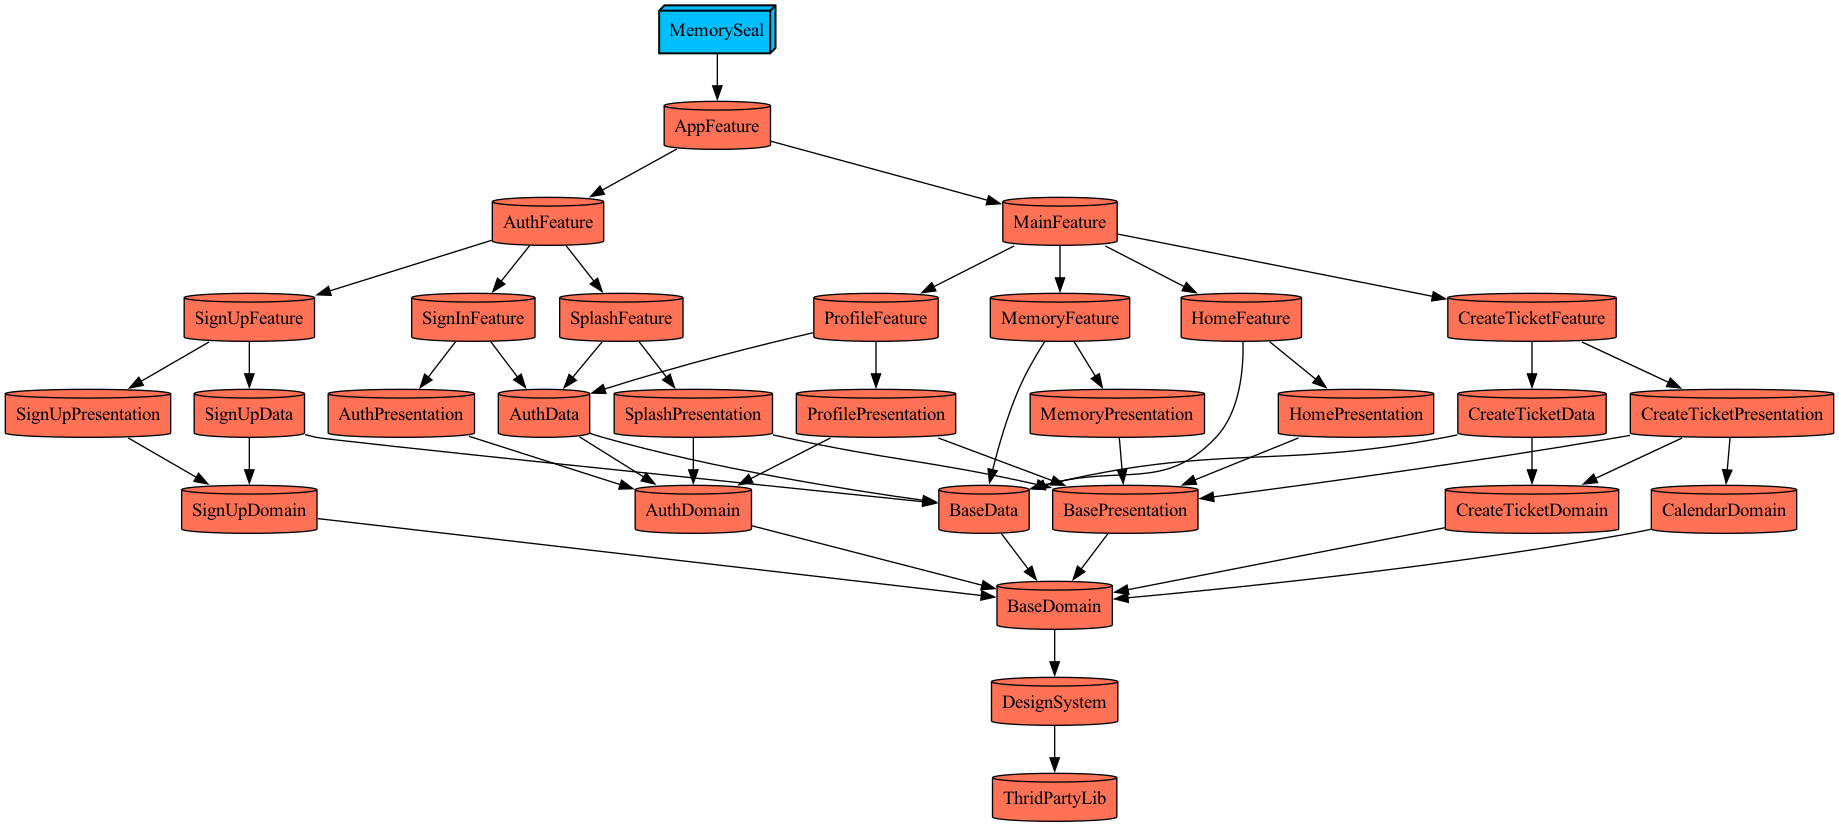
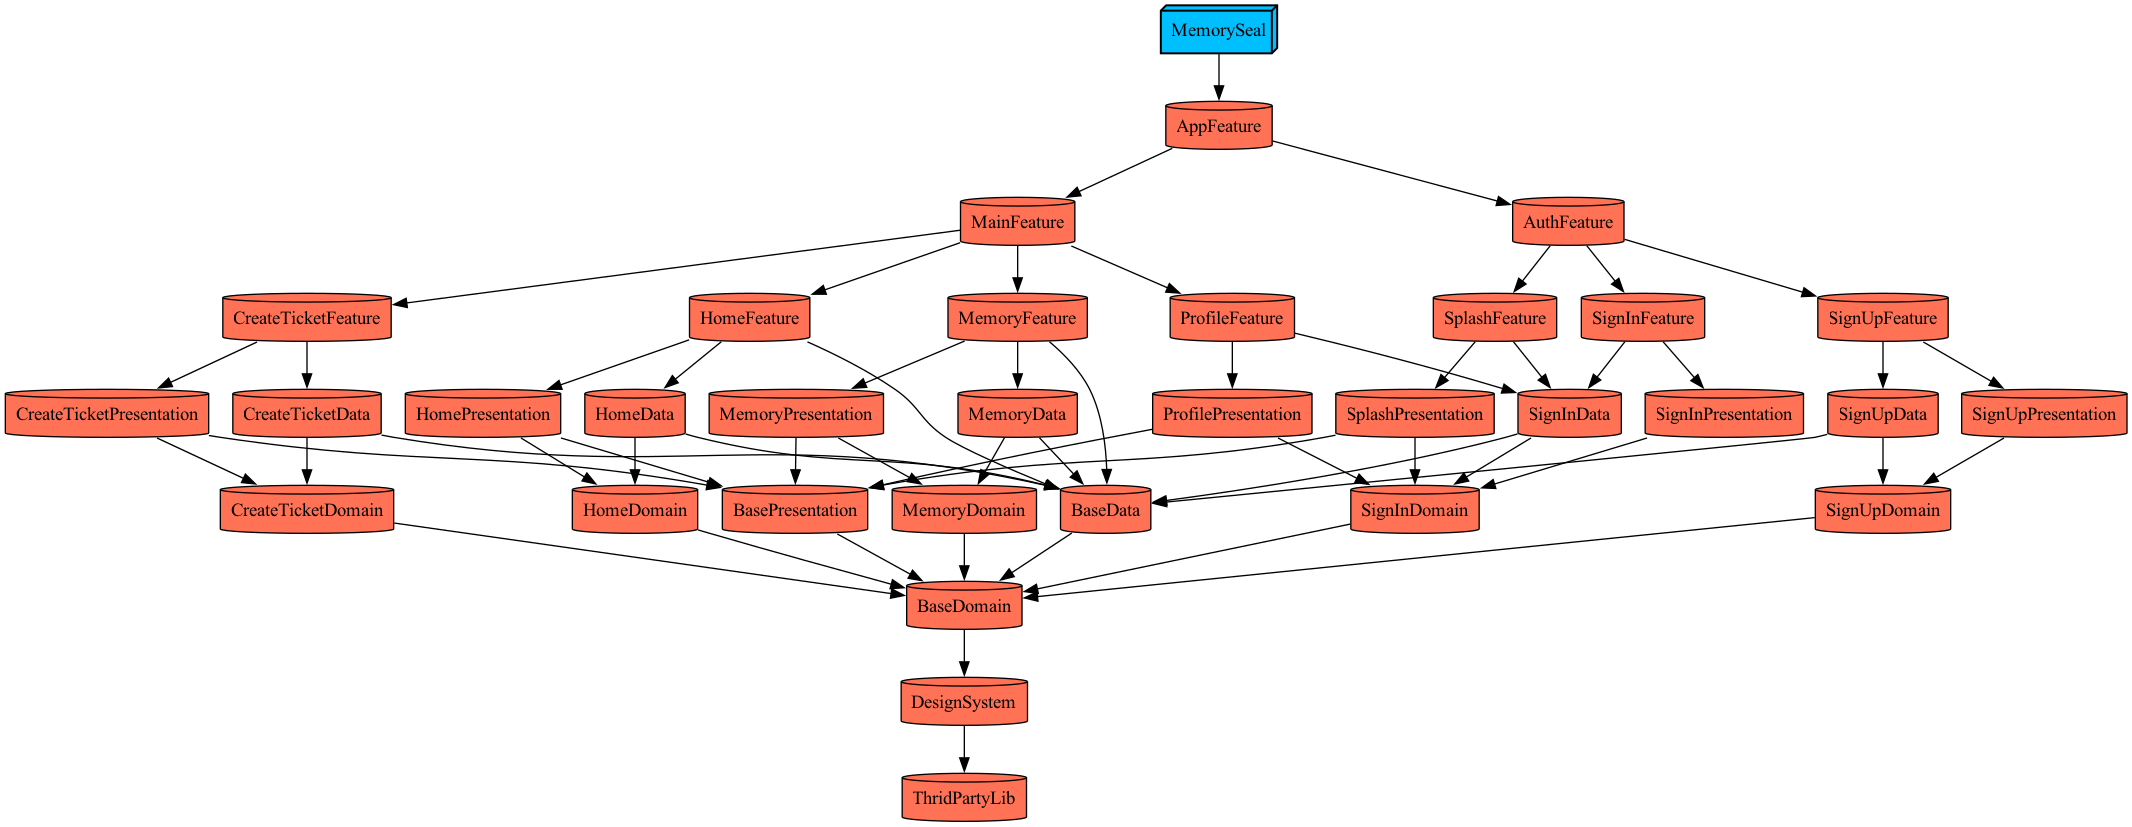
Merge pull request #60 from IdiotFrogs/refactor/dependencyGrpah
Refactor: CalendarDomain 모듈 제거 및 MemoryDomain 통합

Pull request: Refactor: CalendarDomain 모듈 제거 및 MemoryDomain 통합
## 변경 사항

- `CalendarDomain` 모듈 제거 (`Project.swift`, `placeHolder.swift`, `Sources` 일체)
- `CalendarUseCase` / `CalendarDateModel` 을 `MemoryDomain` 으로 이관
- `CalendarDateModel` → `CalendarDateEntity` 로 네이밍 통일 (도메인 레이어 컨벤션 일치)
- `Dependency+Project.swift` 에서 `TargetDependency.Domain.CalendarDomain` 정의 제거
- 의존하던 모듈 (`MemoryFeature`, `MemoryPresentation`, `CreateTicketPresentation`) 에서 `CalendarDomain` 의존성/`import` 정리
- `BuryTicketViewController` / `BuryTicketViewModel` 의 `CalendarDateModel` 참조를 `CalendarDateEntity` 로 교체
- 의존성 그래프(`graph.png`) 갱신

## 테스트 방법

- [ ] `tuist generate` 후 빌드 성공 확인
- [ ] 묻기(BuryTicket) 화면 진입 시 캘린더 정상 렌더링
- [ ] 월 이동, 날짜 선택, 묻기 동작 정상 확인
- [ ] CreateTicket 화면 빌드/동작 이상 없음 확인
- [ ] Memory 화면 진입/동작 회귀 없음 확인

🤖 Generated with [Claude Code](https://claude.com/claude-code)

diff --git a/Projects/Presentation/MemoryPresentation/Sources/BuryTicket/ViewModel/BuryTicketViewModel.swift b/Projects/Presentation/MemoryPresentation/Sources/BuryTicket/ViewModel/BuryTicketViewModel.swift
@@ -3,7 +3,6 @@ import Foundation
 import RxSwift
 import RxCocoa
 
-import CalendarDomain
 import MemoryDomain
 import DesignSystem
 
@@ -25,7 +24,7 @@ public final class BuryTicketViewModel {
     private let buryTicketUseCase: BuryTicketUseCase
 
     private let currentMonth: BehaviorRelay<Date> = .init(value: Date().kstNow)
-    private let calendarDates: PublishRelay<[CalendarDateModel]> = .init()
+    private let calendarDates: PublishRelay<[CalendarDateEntity]> = .init()
     private let selectedDate: BehaviorRelay<Date?> = .init(value: nil)
 
     public init(
@@ -51,7 +50,7 @@ public final class BuryTicketViewModel {
 
     struct Output {
         let currentMonth: BehaviorRelay<Date>
-        let calendarDates: PublishRelay<[CalendarDateModel]>
+        let calendarDates: PublishRelay<[CalendarDateEntity]>
         let selectedDate: BehaviorRelay<Date?>
         let canBury: Driver<Bool>
         let isLoading: Driver<Bool>
@@ -151,7 +150,7 @@ public final class BuryTicketViewModel {
 
 extension BuryTicketViewModel {
     private func requestCalendarDates(date: Date) {
-        let calendarDates: [CalendarDateModel] = calendarUseCase.generateCalendarDates(for: date)
+        let calendarDates: [CalendarDateEntity] = calendarUseCase.generateCalendarDates(for: date)
         self.calendarDates.accept(calendarDates)
         self.currentMonth.accept(date)
     }

diff --git a/Tuist/ProjectDescriptionHelpers/Dependency+Project.swift b/Tuist/ProjectDescriptionHelpers/Dependency+Project.swift
@@ -61,11 +61,6 @@ public extension TargetDependency.Domain {
         path: .relativeToRoot("Projects/Domain/BaseDomain")
     )
     
-    static let CalendarDomain = TargetDependency.project(
-        target: "CalendarDomain",
-        path: .relativeToRoot("Projects/Domain/CalendarDomain")
-    )
-    
     static let SignInDomain = TargetDependency.project(
         target: "SignInDomain",
         path: .relativeToRoot("Projects/Domain/SignInDomain")

diff --git a/Projects/Presentation/MemoryPresentation/Sources/BuryTicket/Controller/BuryTicketViewController.swift b/Projects/Presentation/MemoryPresentation/Sources/BuryTicket/Controller/BuryTicketViewController.swift
@@ -4,7 +4,7 @@ import SnapKit
 import RxSwift
 import RxCocoa
 
-import CalendarDomain
+import MemoryDomain
 import DesignSystem
 
 public final class BuryTicketViewController: UIViewController {
@@ -13,7 +13,7 @@ public final class BuryTicketViewController: UIViewController {
 
     private let rxViewDidLoad: PublishRelay<Void> = .init()
     private let didSelectDate: PublishRelay<Date> = .init()
-    private var currentCalendarDates: [CalendarDateModel] = []
+    private var currentCalendarDates: [CalendarDateEntity] = []
 
     // MARK: - Subviews
 

diff --git a/Projects/Feature/MemoryFeature/Project.swift b/Projects/Feature/MemoryFeature/Project.swift
@@ -14,7 +14,6 @@ let project = Project.makeModule(
     dependencies: [
         .Presentation.MemoryPresentation,
         .Data.BaseData,
-        .Data.MemoryData,
-        .Domain.CalendarDomain
+        .Data.MemoryData
     ]
 )

diff --git a/Projects/Presentation/MemoryPresentation/Project.swift b/Projects/Presentation/MemoryPresentation/Project.swift
@@ -13,8 +13,7 @@ let project = Project.makeModule(
     product: .staticFramework,
     dependencies: [
         .Presentation.BasePresentation,
-        .Domain.MemoryDomain,
-        .Domain.CalendarDomain
+        .Domain.MemoryDomain
     ],
     resources: ["Resources/**"]
 )

diff --git a/Projects/Feature/MemoryFeature/Sources/DIContainer/MemoryDIContainer.swift b/Projects/Feature/MemoryFeature/Sources/DIContainer/MemoryDIContainer.swift
@@ -5,7 +5,6 @@ import BaseData
 import BaseDomain
 import MemoryData
 import MemoryDomain
-import CalendarDomain
 
 public final class MemoryDIContainer {
     private func makeMemoryViewModel(action: MemoryViewModel.Action, capsuleId: Int) -> MemoryViewModel {

diff --git a/Projects/Presentation/CreateTicketPresentation/Project.swift b/Projects/Presentation/CreateTicketPresentation/Project.swift
@@ -13,7 +13,6 @@ let project = Project.makeModule(
     product: .staticFramework,
     dependencies: [
         .Presentation.BasePresentation,
-        .Domain.CalendarDomain,
         .Domain.CreateTicketDomain
     ],
     resources: ["Resources/**"]

diff --git a/Projects/Presentation/CreateTicketPresentation/Sources/CreateTicket/Controller/CreateTicketViewController.swift b/Projects/Presentation/CreateTicketPresentation/Sources/CreateTicket/Controller/CreateTicketViewController.swift
@@ -12,7 +12,6 @@ import SnapKit
 import RxSwift
 import RxCocoa
 
-import CalendarDomain
 import DesignSystem
 
 private final class LayoutTrackingTextView: UITextView {